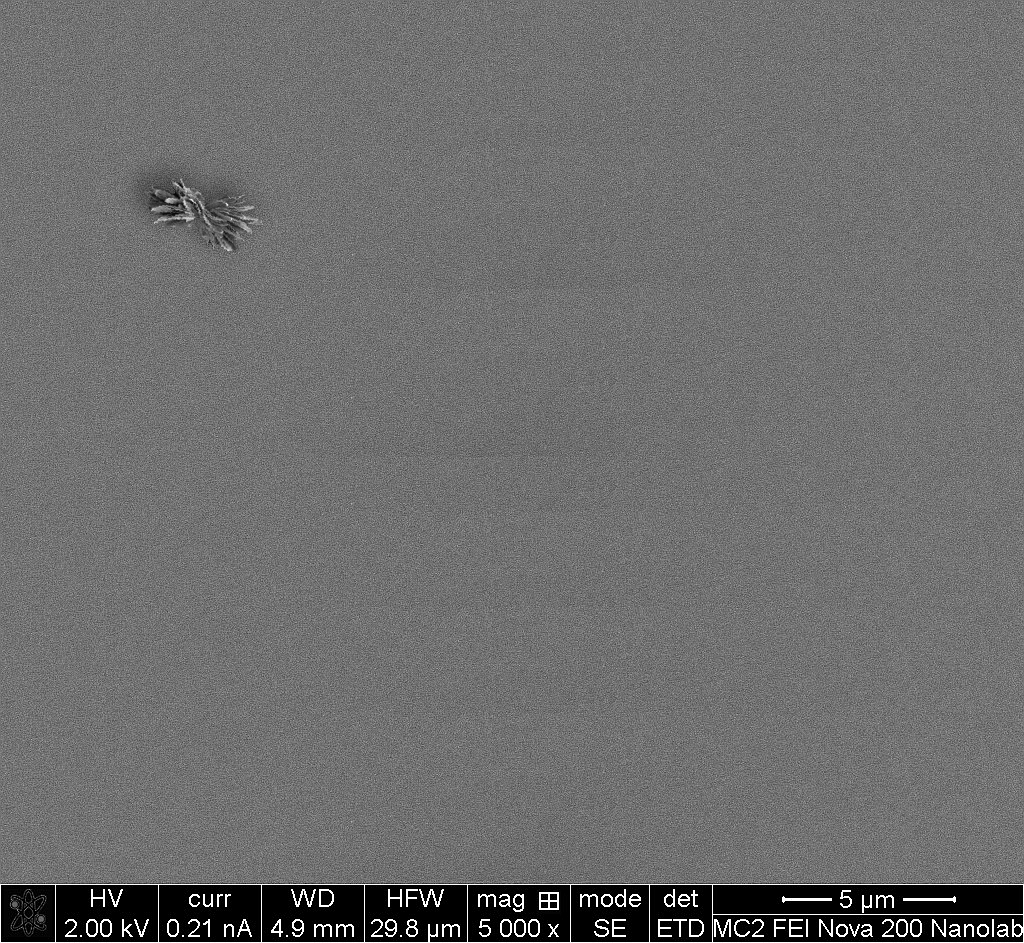
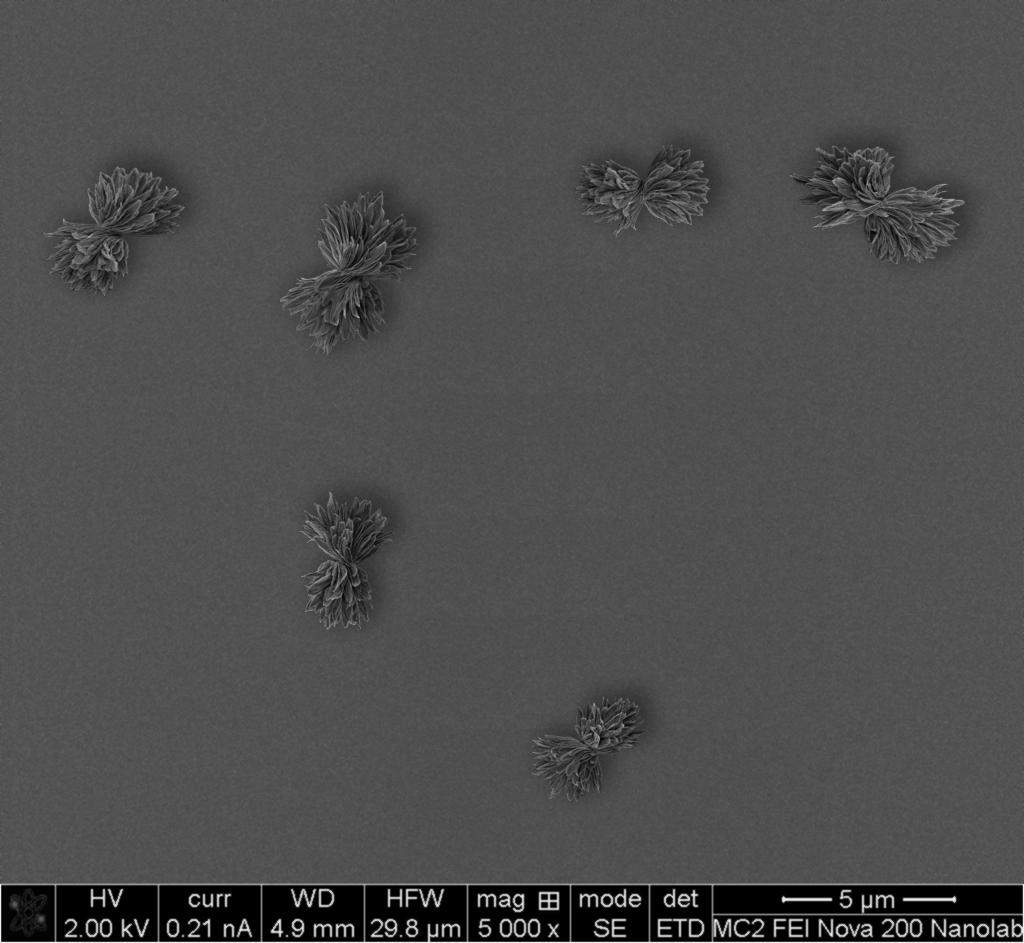
Added more images.

diff --git a/components/grammar/models.ts b/components/grammar/models.ts
@@ -9,10 +9,7 @@ export const grammarModels: Metadata[] = [
             ["init-decoder", "https://edge-ai-models.s3.us-east-2.amazonaws.com/grammar/decoder-init.onnx"],
         ]),
         tokenizer: "https://edge-ai-models.s3.us-east-2.amazonaws.com/grammar/tokenizer.json",
-        examples: [
-            "Grammar chchcking in browser! Hhow coool is that! Wha doo you think?",
-            "Morbi elit mi, accumsan vitae elementum tincidunt, feugiat sed risus."
-        ]
+        examples: []
     },
     {
         title: "T5 Efficient TINY quantinized",
@@ -22,10 +19,7 @@ export const grammarModels: Metadata[] = [
             ["init-decoder", "https://edge-ai-models.s3.us-east-2.amazonaws.com/grammar/decoder-init-quant.onnx"],
         ]),
         tokenizer: "https://edge-ai-models.s3.us-east-2.amazonaws.com/grammar/tokenizer.json",
-        examples: [
-            "Lorem ipsum dolor sit amet, consectetur adipiscing elit. Proin tempus, enim viverra auctor tempus.",
-            "Morbi elit mi, accumsan vitae elementum tincidunt, feugiat sed risus."
-        ]
+        examples: []
     },
     {
         title: "T5 Efficient MINI quantinized",
@@ -35,9 +29,6 @@ export const grammarModels: Metadata[] = [
             ["init-decoder", "https://edge-ai-models.s3.us-east-2.amazonaws.com/grammar/mini-decoder-init-quant.onnx"],
         ]),
         tokenizer: "https://edge-ai-models.s3.us-east-2.amazonaws.com/grammar/tokenizer.json",
-        examples: [
-            "Lorem ipsum dolor sit amet, consectetur adipiscing elit. Proin tempus, enim viverra auctor tempus.",
-            "Morbi elit mi, accumsan vitae elementum tincidunt, feugiat sed risus."
-        ]
+        examples: []
     }
 ]

diff --git a/components/segmentation/models.ts b/components/segmentation/models.ts
@@ -18,7 +18,10 @@ const semSegmentationClasses: ModelClass[] = [
 const semSegmentationExamples: string[] = [
     "/sem-segment/image-1.png",
     "/sem-segment/image-2.png",
-    "/sem-segment/image-3.png"
+    "/sem-segment/image-3.png",
+    "/sem-segment/image-4.png",
+    "/sem-segment/image-5.png",
+    "/sem-segment/image-6.png",
 ]
 
 export const semSegmentationModels: Metadata[] = [

diff --git a/next.config.js b/next.config.js
@@ -30,10 +30,6 @@ module.exports = {
             from: './node_modules/onnxruntime-web/dist/ort-wasm-threaded.wasm',
             to: 'static/chunks/pages/models',
           },
-          {
-            from: './models',
-            to: 'static/chunks/pages',
-          },
         ],
       }),
     );
